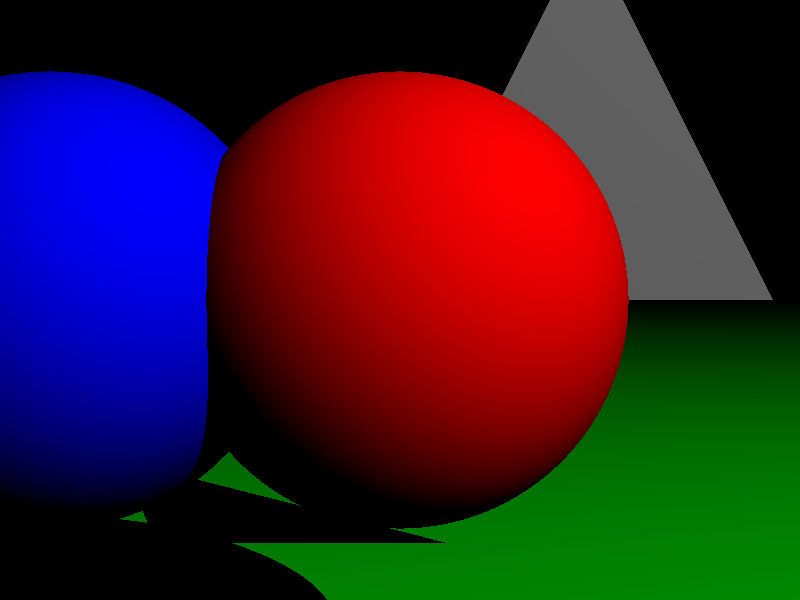
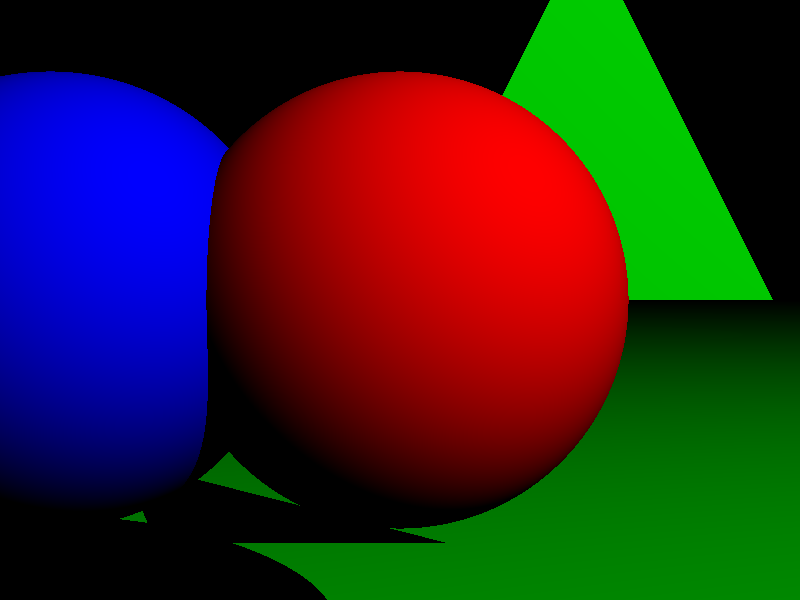
Updated color to become material

Changed region(s): [[0.625, 0.0, 0.9688, 0.51]]

diff --git a/attempt.go b/attempt.go
@@ -3,6 +3,7 @@ package main
 import (
 	"image/png"
 	"os"
+	m "raytrace/material"
 	obj "raytrace/object"
 	"raytrace/shapes"
 	v "raytrace/vector"
@@ -11,12 +12,12 @@ import (
 func main() {
 	width := 800.0
 	height := 600.0
-	s := shapes.NewSphere(v.Vec3{0, 0, -5}, 1, v.Vec3{255, 0, 0})
-	s2 := shapes.NewSphere(v.Vec3{-1.5, 0, -5}, 1, v.Vec3{0, 0, 255})
+	s := shapes.NewSphere(v.Vec3{0, 0, -5}, 1, &m.BasicRed)
+	s2 := shapes.NewSphere(v.Vec3{-1.5, 0, -5}, 1, &m.BasicBlue)
 
-	t := shapes.NewTriangle(v.Vec3{0, 0, -6}, v.Vec3{2, 0, -6}, v.Vec3{1, 2, -6}, v.Vec3{122, 122, 122})
+	t := shapes.NewTriangle(v.Vec3{0, 0, -6}, v.Vec3{2, 0, -6}, v.Vec3{1, 2, -6}, &m.BasicGreen)
 
-	p := NewPlane(v.Vec3{0, -2, 0}, v.Vec3{0, 1, 0}, v.Vec3{0, 255, 0})
+	p := shapes.NewPlane(v.Vec3{0, -2, 0}, v.Vec3{0, 1, 0}, &m.BasicGreen)
 	c := NewStCamera(v.Origin, DefaultCameraDir, 30.0)
 	l := PointLight{v.Vec3{10, 10, 10}, v.Vec3{255, 255, 255}}
 	img := render(width, height, c, []obj.Object{*t, *s, *s2, *p}, []Light{l})

diff --git a/shapes/triangle.go b/shapes/triangle.go
@@ -1,15 +1,16 @@
 package shapes
 
 import (
+	m "raytrace/material"
 	obj "raytrace/object"
 	vec "raytrace/vector"
 )
 
 type Triangle struct {
-	a     vec.Vec3
-	b     vec.Vec3
-	c     vec.Vec3
-	color vec.Vec3
+	a vec.Vec3
+	b vec.Vec3
+	c vec.Vec3
+	m.Material
 }
 
 func (t Triangle) Intersects(origin, dir vec.Vec3) (float64, obj.Shape) {
@@ -19,14 +20,14 @@ func (t Triangle) Intersects(origin, dir vec.Vec3) (float64, obj.Shape) {
 	return -1, nil
 }
 
-func (t Triangle) Color() vec.Vec3 {
-	return t.color
+func (t Triangle) Mat() m.Material {
+	return t.Material
 }
 
 func (t Triangle) Normal(_to vec.Vec3) (vec.Vec3, bool) {
 	return vec.Unit(vec.Cross(vec.Sub(t.a, t.b), vec.Sub(t.c, t.a))), true
 }
 
-func NewTriangle(a, b, c, color vec.Vec3) *Triangle {
-	return &Triangle{a, b, c, color}
+func NewTriangle(a, b, c vec.Vec3, mat m.Material) *Triangle {
+	return &Triangle{a, b, c, mat}
 }

diff --git a/main.go b/main.go
@@ -4,14 +4,18 @@ import (
 	"flag"
 	"os"
 	"raytrace/off"
+	//	"raytrace/obj" // oops deleted this from git by accident
+)
+
+var (
+	width  = flag.Float64("width", 800.0, "Width to render")
+	height = flag.Float64("height", 600.0, "Height to render")
+	out    = flag.String("out", "out.png", "Filepath of out file when rendering one scene")
 )
 
 func _main() {
 	off := flag.String("off", "", "Off file to render")
 	obj := flag.String("obj", "", "Obj file to render")
-	width := flag.Float64("width", 800.0, "Width to render")
-	height := flag.Float64("height", 600.0, "Height to render")
-	out := flag.String("out", "out.png", "Filepath of out file when rendering one scene")
 
 	flag.Parse()
 
@@ -32,5 +36,12 @@ func Off(filename string) {
 }
 
 func Obj(filename string) {
+	/*
+	   f, err := os.Open(filename)
+	   if err != nil {
+	     panic(err)
+	   }
 
+	   obj.Decode(f)
+	*/
 }

diff --git a/shapes/sphere_test.go b/shapes/sphere_test.go
@@ -2,12 +2,13 @@ package shapes
 
 import (
 	"fmt"
+	m "raytrace/material"
 	v "raytrace/vector"
 	"testing"
 )
 
-func TestIntersect(t *testing.T) {
-	sphere := NewSphere(v.Vec3{0, 0, -10}, 3.0, v.Vec3{0, 0, 0})
+func TestSphereIntersect(t *testing.T) {
+	sphere := NewSphere(v.Vec3{0, 0, -10}, 3.0, &m.BasicBlack)
 	param, hit := sphere.Intersects(v.Origin, v.Vec3{0, 0, -1})
 	if hit == nil {
 		fmt.Println("Failed sphere intersection", param, hit)
@@ -15,8 +16,8 @@ func TestIntersect(t *testing.T) {
 	}
 }
 
-func TestIntersect2(t *testing.T) {
-	sphere := NewSphere(v.Vec3{0, 0, -10}, 3.0, v.Vec3{0, 0, 0})
+func TestSphereIntersect2(t *testing.T) {
+	sphere := NewSphere(v.Vec3{0, 0, -10}, 3.0, &m.BasicBlack)
 	param, hit := sphere.Intersects2(v.Origin, v.Vec3{0, 0, -1})
 	if hit == nil {
 		fmt.Println("Failed sphere intersection2", param, hit)

diff --git a/shapes/sphere.go b/shapes/sphere.go
@@ -2,6 +2,7 @@ package shapes
 
 import (
 	"math"
+	m "raytrace/material"
 	obj "raytrace/object"
 	v "raytrace/vector"
 )
@@ -9,19 +10,19 @@ import (
 type Sphere struct {
 	center    v.Vec3
 	radiusSqr float64
-	color     v.Vec3
+	m.Material
 }
 
-func NewSphere(center v.Vec3, radius float64, color v.Vec3) *Sphere {
-	return &Sphere{center, radius * radius, color}
+func NewSphere(center v.Vec3, radius float64, mat m.Material) *Sphere {
+	return &Sphere{center, radius * radius, mat}
 }
 
 func (s Sphere) Normal(p v.Vec3) (v.Vec3, bool) {
 	return v.Sub(p, s.center), false
 }
 
-func (s Sphere) Color() v.Vec3 {
-	return s.color
+func (s Sphere) Mat() m.Material {
+	return s.Material
 }
 
 func (s Sphere) Intersects(origin, dir v.Vec3) (a float64, shape obj.Shape) {

diff --git a/shapes/plane.go b/shapes/plane.go
@@ -1,0 +1,38 @@
+package shapes
+
+import (
+	m "raytrace/material"
+	obj "raytrace/object"
+	v "raytrace/vector"
+)
+
+type Plane struct {
+	point v.Vec3
+	norm  v.Vec3
+	m.Material
+}
+
+// should be open to other constructions
+func NewPlane(p, norm v.Vec3, mat m.Material) *Plane {
+	return &Plane{p, v.Unit(norm), mat}
+}
+
+func (p Plane) Intersects(origin, dir v.Vec3) (float64, obj.Shape) {
+	denom := v.Dot(dir, p.norm)
+	if denom == 0 {
+		return -1, nil
+	}
+	param := v.Dot(v.Sub(p.point, origin), p.norm) / denom
+	if param < 0 {
+		return param, nil
+	}
+	return param, p
+}
+
+func (p Plane) Normal(_to v.Vec3) (v.Vec3, bool) {
+	return p.norm, true
+}
+
+func (p Plane) Mat() m.Material {
+	return p.Material
+}

diff --git a/material/material.go b/material/material.go
@@ -1,0 +1,34 @@
+package material
+
+import (
+	v "raytrace/vector"
+)
+
+type Material interface {
+	Color() v.Vec3
+}
+
+type ColoredMat struct {
+	color v.Vec3
+}
+
+var Black = v.Vec3{0, 0, 0}
+var BasicBlack = ColoredMat{Black}
+var White = v.Vec3{255, 255, 255}
+var BasicWhite = ColoredMat{White}
+var BasicRed = ColoredMat{v.Vec3{255, 0, 0}}
+var BasicGreen = ColoredMat{v.Vec3{0, 255, 0}}
+var BasicBlue = ColoredMat{v.Vec3{0, 0, 255}}
+
+func (c *ColoredMat) Color() v.Vec3 {
+	if c == nil {
+		return White
+	}
+	return c.color
+}
+
+type Placeholder struct{}
+
+func (p Placeholder) Color() v.Vec3 {
+	return v.Vec3{123, 123, 123}
+}

diff --git a/mesh/mesh.go b/mesh/mesh.go
@@ -2,6 +2,7 @@ package mesh
 
 import (
 	"math"
+	mat "raytrace/material"
 	obj "raytrace/object"
 	"raytrace/shapes"
 	v "raytrace/vector"
@@ -45,7 +46,7 @@ func (m Mesh) Intersects(origin, dir v.Vec3) (float64, obj.Shape) {
 		face := m.FaceN(i)
 		if t, intersects := v.Intersects(face, origin, dir); intersects && t < min {
 			min = t
-			shape = shapes.NewTriangle(face[0], face[1], face[2], v.Vec3{200, 200, 200})
+			shape = shapes.NewTriangle(face[0], face[1], face[2], mat.Placeholder{})
 		}
 	}
 	return min, shape

diff --git a/shapes/plane_test.go b/shapes/plane_test.go
@@ -1,0 +1,17 @@
+package shapes
+
+import (
+	"fmt"
+	m "raytrace/material"
+	v "raytrace/vector"
+	"testing"
+)
+
+func TestPlaneIntersect(t *testing.T) {
+	plane := NewPlane(v.Origin, v.Vec3{0, 1, 0}, &m.BasicBlack)
+	param, hit := plane.Intersects(v.Vec3{0, 2, 0}, v.Vec3{0, -1, 0})
+	if hit == nil {
+		fmt.Println("Plane failed to intersect correctly", param, hit)
+		t.FailNow()
+	}
+}

diff --git a/object/object.go b/object/object.go
@@ -1,6 +1,7 @@
 package object
 
 import (
+	m "raytrace/material"
 	v "raytrace/vector"
 )
 
@@ -21,5 +22,5 @@ type Shape interface {
 	Normal(to v.Vec3) (dir v.Vec3, invAble bool)
 	// invable relates to whether or not the normal can be flipped or not
 	// any 2d shape should be invertible
-	Color() v.Vec3
+	Mat() m.Material
 }

diff --git a/scene.go b/scene.go
@@ -55,7 +55,7 @@ func checkIntersects(from, dir v.Vec3, objects []obj.Object, lights []Light) col
 			}
 		}
 		if canIllum {
-			v.AddSet(&color, v.SMul(align, near.Color()))
+			v.AddSet(&color, v.SMul(align, near.Mat().Color()))
 		}
 	}
 	return v.ToRGBA(color)
